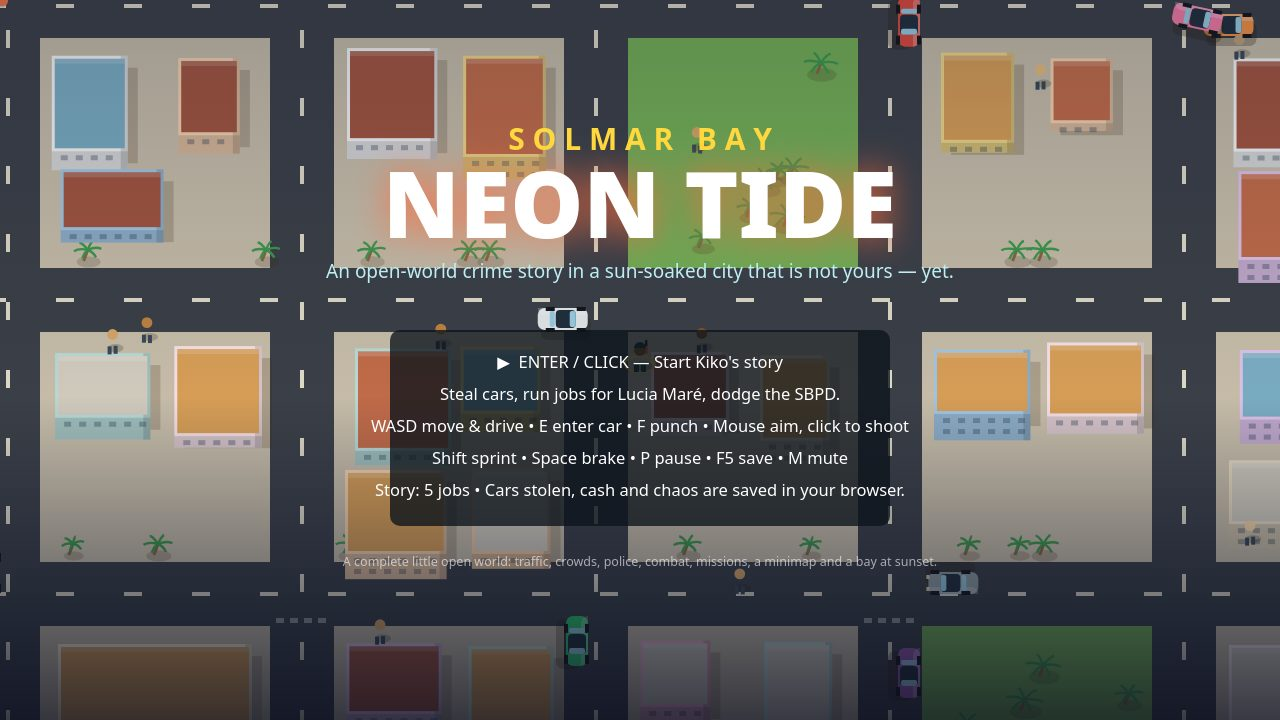
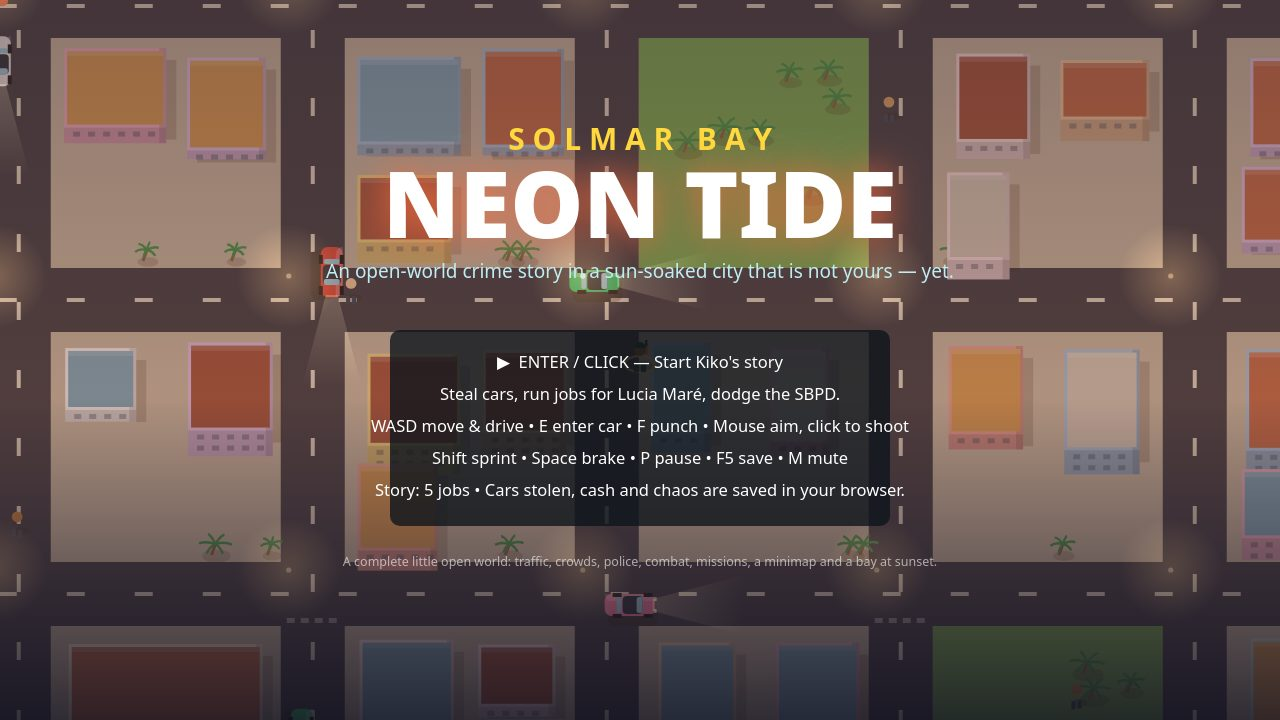
Add day/night cycle: world clock, dusk/night lighting, HUD clock, pinned shot times
- config.js: DAY_NIGHT (240s cycle, starts 16:48 late afternoon) plus
  phaseForTime/clockForTime/darknessForTime helpers
- world.js: world.timeOfDay advances in stepWorld unless frozen;
  world.phase()/clock()/darkness() accessors
- render.js: translucent dusk (warm orange) / night (deep blue) overlay,
  streetlight glow pools from precomputed city.lamps, car headlight cones
- hud.js: clock panel (phase icon + HH:MM) top-left
- shots.js: SHOT_TIMES pins each state (title dusk 0.76, foot day 0.45,
  drive day 0.50, chase night 0.92) and freezes the cycle in shot mode
- screenshots re-shot: title at dusk, chase at night with headlights

diff --git a/game/src/render.js b/game/src/render.js
@@ -1,7 +1,7 @@
 // Rendering: a sun-soaked top-down city with pseudo-3D buildings (walls extruded toward
 // the south-east sun shadow, roofs above), striped avenues, palms, the beach and the bay.
 // Everything is drawn from the world state each frame; nothing is pre-rendered or loaded.
-import { BLOCK, PITCH, ROAD, ROWS, VIEW_HEIGHT, VIEW_WIDTH, WORLD_WIDTH } from './config.js';
+import { BLOCK, PITCH, ROAD, ROWS, VIEW_HEIGHT, VIEW_WIDTH, WORLD_WIDTH, darknessForTime, phaseForTime } from './config.js';
 import { currentObjective } from './missions.js';
 
 function roundRect(ctx, x, y, w, h, r) {
@@ -281,6 +281,58 @@ function drawEffects(ctx, world, cam) {
   }
 }
 
+function drawDayNight(ctx, world, cam) {
+  const tod = world.timeOfDay ?? 0.5;
+  const darkness = darknessForTime(tod);
+  if (darkness <= 0.01) return;
+  const phase = phaseForTime(tod);
+  // Translucent overlay: warm orange at dusk/dawn, deep blue at night.
+  let color;
+  if (phase === 'dusk') color = `rgba(255,110,40,${0.10 + darkness * 0.18})`;
+  else if (phase === 'dawn') color = `rgba(255,150,80,${darkness * 0.16})`;
+  else color = `rgba(8,14,52,${darkness * 0.52})`;
+  ctx.fillStyle = color;
+  ctx.fillRect(0, 0, VIEW_WIDTH, VIEW_HEIGHT);
+  if (phase === 'night' || phase === 'dusk') {
+    ctx.fillStyle = `rgba(6,10,40,${darkness * 0.28})`;
+    ctx.fillRect(0, 0, VIEW_WIDTH, VIEW_HEIGHT);
+  }
+  // Streetlight glow pools — positions precomputed in city.lamps (road grid).
+  ctx.save();
+  ctx.globalCompositeOperation = 'lighter';
+  const lampAlpha = 0.10 + darkness * 0.22;
+  for (const lamp of world.city.lamps || []) {
+    const x = lamp.x - cam.x; const y = lamp.y - cam.y;
+    if (x < -60 || y < -60 || x > VIEW_WIDTH + 60 || y > VIEW_HEIGHT + 60) continue;
+    const g = ctx.createRadialGradient(x, y, 2, x, y, 52);
+    g.addColorStop(0, `rgba(255,205,110,${lampAlpha})`);
+    g.addColorStop(1, 'rgba(255,205,110,0)');
+    ctx.fillStyle = g;
+    ctx.beginPath(); ctx.arc(x, y, 52, 0, Math.PI * 2); ctx.fill();
+    ctx.fillStyle = `rgba(255,230,170,${0.5 * darkness})`;
+    ctx.beginPath(); ctx.arc(x, y, 2.6, 0, Math.PI * 2); ctx.fill();
+  }
+  // Car headlight cones at night/dusk.
+  if (darkness > 0.25) {
+    for (const car of world.cars) {
+      const x = car.x - cam.x; const y = car.y - cam.y;
+      if (x < -90 || y < -90 || x > VIEW_WIDTH + 90 || y > VIEW_HEIGHT + 90) continue;
+      ctx.save();
+      ctx.translate(x, y); ctx.rotate(car.angle);
+      const coneLen = 92; const coneW = 30;
+      const g = ctx.createLinearGradient(24, 0, 24 + coneLen, 0);
+      g.addColorStop(0, `rgba(255,244,180,${0.30 * darkness})`);
+      g.addColorStop(1, 'rgba(255,244,180,0)');
+      ctx.fillStyle = g;
+      ctx.beginPath();
+      ctx.moveTo(24, -6); ctx.lineTo(24 + coneLen, -coneW); ctx.lineTo(24 + coneLen, coneW); ctx.lineTo(24, 6);
+      ctx.closePath(); ctx.fill();
+      ctx.restore();
+    }
+  }
+  ctx.restore();
+}
+
 export function createRenderer(canvas) {
   const ctx = canvas.getContext('2d');
   return {
@@ -295,6 +347,7 @@ export function createRenderer(canvas) {
       drawPlayer(ctx, world, cam);
       drawEffects(ctx, world, cam);
       drawObjective(ctx, world, cam);
+      drawDayNight(ctx, world, cam);
     },
   };
 }

diff --git a/game/src/config.js b/game/src/config.js
@@ -14,6 +14,48 @@ export const WORLD_HEIGHT = ROWS * PITCH + ROAD + 190; // extra strip: beach and
 
 export const SAVE_KEY = 'neon-tide-solmar-bay-save-v1';
 
+// Day/night cycle: timeOfDay is in [0,1) — 0 = midnight, 0.25 = 06:00,
+// 0.5 = noon, 0.75 = 18:00. A full cycle lasts `cycleSeconds` of play and
+// the game starts in late afternoon so dusk arrives soon after starting.
+export const DAY_NIGHT = {
+  cycleSeconds: 240,
+  startTimeOfDay: 0.70, // 16:48 — late afternoon
+};
+
+/** Phase name for a time-of-day: 'day' | 'dusk' | 'night' | 'dawn'. */
+export function phaseForTime(tod) {
+  const t = ((tod % 1) + 1) % 1;
+  if (t >= 0.29 && t < 0.71) return 'day';
+  if (t >= 0.71 && t < 0.83) return 'dusk';
+  if (t >= 0.21 && t < 0.29) return 'dawn';
+  return 'night';
+}
+
+/** "HH:MM" clock string derived from a time-of-day in [0,1). */
+export function clockForTime(tod) {
+  const total = Math.floor((((tod % 1) + 1) % 1) * 24 * 60);
+  const hh = String(Math.floor(total / 60)).padStart(2, '0');
+  const mm = String(total % 60).padStart(2, '0');
+  return `${hh}:${mm}`;
+}
+
+function smoothRamp(tod, from, to) {
+  // Linear ramp 0->1 as tod moves from `from` to `to` (no wrap).
+  if (tod <= from) return 0;
+  if (tod >= to) return 1;
+  return (tod - from) / (to - from);
+}
+
+/** Darkness 0 (full day) .. 1 (deep night), smooth through dusk and dawn. */
+export function darknessForTime(tod) {
+  const t = ((tod % 1) + 1) % 1;
+  if (t >= 0.29 && t <= 0.67) return 0;
+  if (t > 0.67 && t < 0.83) return smoothRamp(t, 0.67, 0.83);
+  if (t >= 0.83 || t <= 0.21) return 1;
+  // dawn: 0.21 -> 0.29 fades back to day
+  return 1 - smoothRamp(t, 0.21, 0.29);
+}
+
 export const PALETTE = {
   water: '#1f8a9c', waterDeep: '#14616f', foam: '#bfeef2',
   sand: '#eedaa4', sandDark: '#e0c586',

diff --git a/game/src/world.js b/game/src/world.js
@@ -1,7 +1,7 @@
 // The world: one state object holding the city, every car, pedestrian and officer, the
 // wanted level, the mission chain, effects and the camera — and the step that advances
 // them all in a fixed order: player, traffic, pedestrians, police, missions, effects.
-import { VIEW_HEIGHT, VIEW_WIDTH, WORLD_HEIGHT, WORLD_WIDTH } from './config.js';
+import { DAY_NIGHT, VIEW_HEIGHT, VIEW_WIDTH, WORLD_HEIGHT, WORLD_WIDTH, clockForTime, darknessForTime, phaseForTime } from './config.js';
 import { createRandom, clamp } from './random.js';
 import { avenueX, avenueY, createCity } from './city.js';
 import { spawnParkedCars, spawnTraffic, stepCar, trafficInput, collideCarWithCity } from './vehicles.js';
@@ -25,6 +25,12 @@ export function createWorld(seed, audio) {
     danger: [],       // points pedestrians flee from, rebuilt each step
     camera: { x: 0, y: 0 },
     time: 0,
+    // Day/night clock: timeOfDay in [0,1), frozen in screenshot mode.
+    timeOfDay: DAY_NIGHT.startTimeOfDay,
+    dayNightFrozen: false,
+    phase() { return phaseForTime(world.timeOfDay); },
+    clock() { return clockForTime(world.timeOfDay); },
+    darkness() { return darknessForTime(world.timeOfDay); },
     saveGame() { return writeSave(world); },
     applySave(data) {
       world.player.money = data.money;
@@ -67,6 +73,9 @@ function collideCars(world) {
 
 export function stepWorld(world, input, dt) {
   world.time += dt;
+  if (!world.dayNightFrozen) {
+    world.timeOfDay = (world.timeOfDay + dt / DAY_NIGHT.cycleSeconds) % 1;
+  }
   world.danger.length = 0;
   stepPlayer(world, input, dt);
   if (world.player.inCar && Math.abs(world.player.inCar.speed) > 190) {

diff --git a/game/src/hud.js b/game/src/hud.js
@@ -1,7 +1,7 @@
 // The HUD and the screens: money, health, wanted stars, the mission banner and phone
 // messages across the top, a live minimap in the corner with the player, traffic,
 // police and the objective on it — plus the title, pause, busted and wasted screens.
-import { VIEW_HEIGHT, VIEW_WIDTH, WORLD_HEIGHT, WORLD_WIDTH } from './config.js';
+import { VIEW_HEIGHT, VIEW_WIDTH, WORLD_HEIGHT, WORLD_WIDTH, clockForTime, phaseForTime } from './config.js';
 import { currentObjective, MISSIONS } from './missions.js';
 
 export const SCREEN_TITLE = 'title';
@@ -77,8 +77,20 @@ function drawStars(ctx, world) {
   }
 }
 
+function drawClock(ctx, world) {
+  const tod = world.timeOfDay ?? 0.5;
+  const phase = phaseForTime(tod);
+  const icon = phase === 'night' ? '🌙' : phase === 'day' ? '☀' : phase === 'dusk' ? '🌇' : '🌅';
+  panel(ctx, 16, 16, 118, 40, 0.66);
+  ctx.fillStyle = '#eaf6ff';
+  ctx.font = 'bold 17px system-ui, sans-serif';
+  ctx.textAlign = 'left';
+  ctx.fillText(`${icon} ${clockForTime(tod)}`, 26, 42);
+}
+
 export function drawHUD(ctx, world, screen) {
   if (screen === SCREEN_TITLE) return;
+  drawClock(ctx, world);
   // Money and health, bottom-left.
   panel(ctx, 16, VIEW_HEIGHT - 86, 208, 70, 0.66);
   ctx.fillStyle = '#7be495';

diff --git a/game/src/shots.js b/game/src/shots.js
@@ -41,8 +41,14 @@ function putPlayerInCar(world, car, x, y, angle, speed) {
   world.player.x = x; world.player.y = y;
 }
 
+// Pinned time-of-day per shot state (frozen in shot mode): title at dusk,
+// foot/drive in day, chase at night so headlights + police lights show.
+export const SHOT_TIMES = { start: 0.76, title: 0.76, foot: 0.45, drive: 0.50, chase: 0.92 };
+
 export function stageShot(name, world) {
   const player = world.player;
+  world.timeOfDay = SHOT_TIMES[name] ?? 0.5;
+  world.dayNightFrozen = true;
   if (name === 'foot') {
     startMission(world);
     world.missions.messageTimer = 0;
